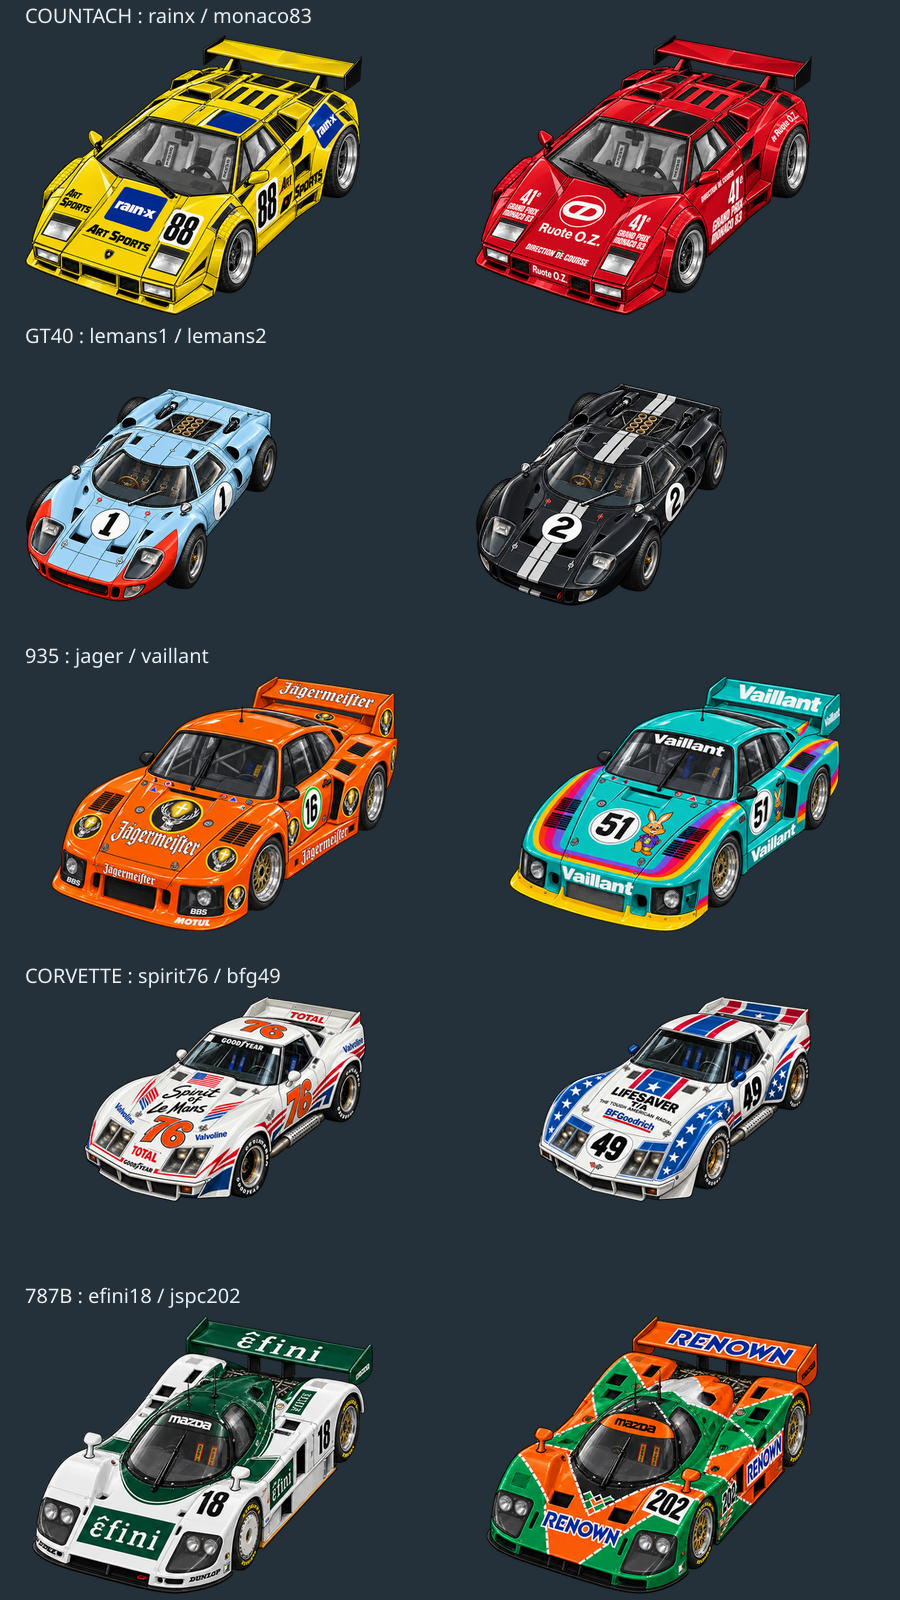
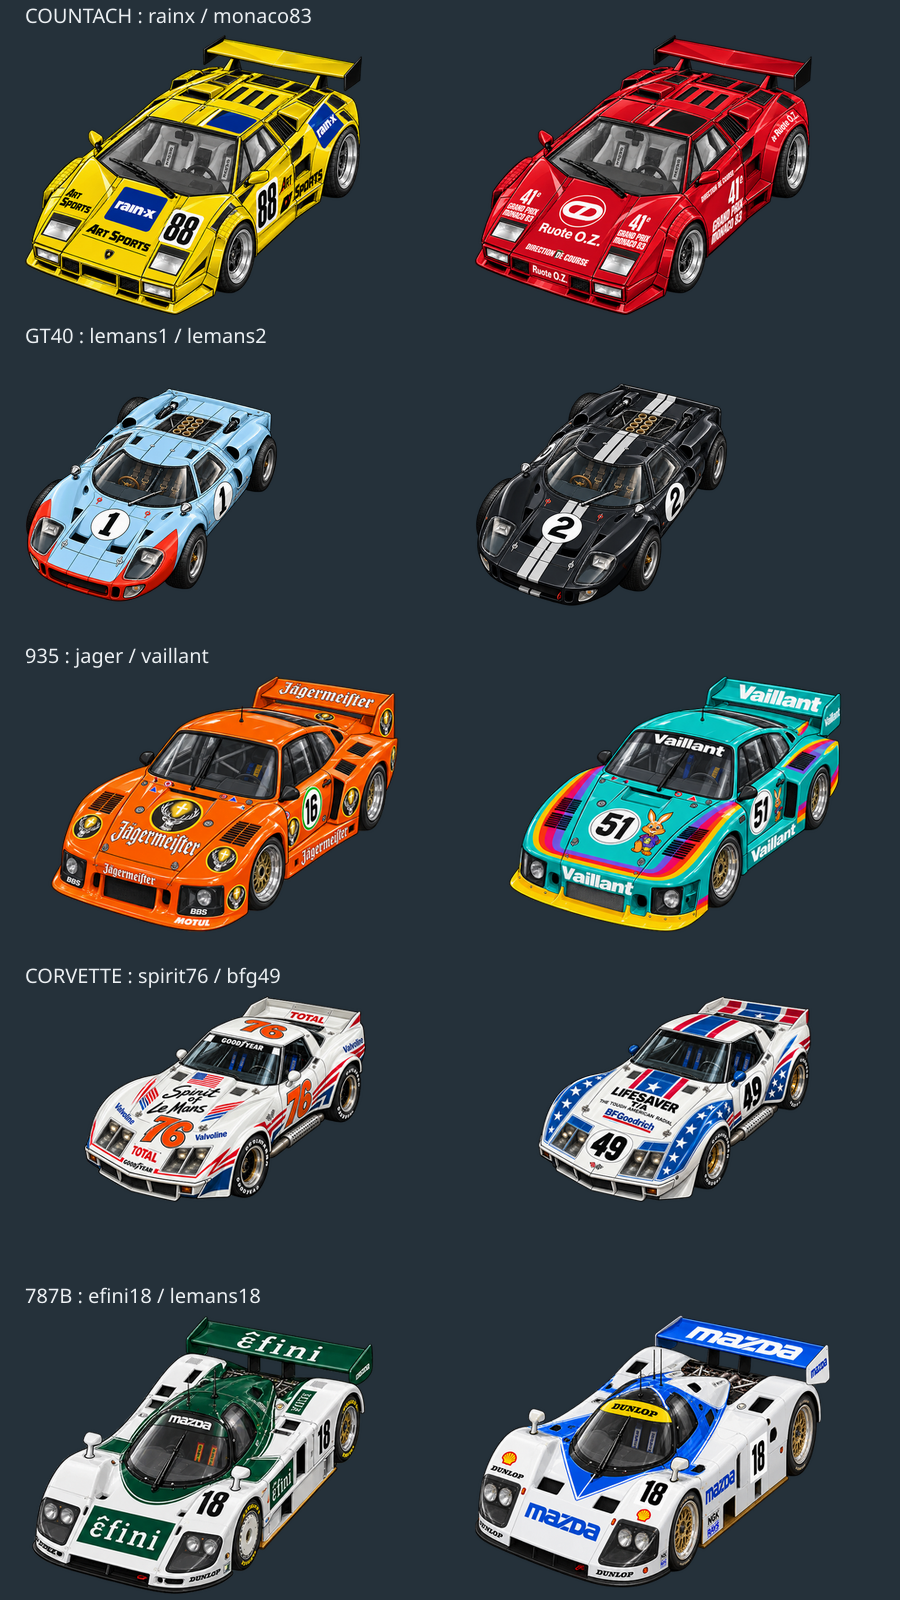
Replace duplicate Renown Mazda livery with Le Mans 1991 white and blue

Changed region(s): [[0.5289, 0.8125, 0.9333, 1.0], [0.2178, 0.7812, 0.28, 0.8125]]

diff --git a/index.html b/index.html
@@ -7,39 +7,39 @@
   <meta name="mobile-web-app-capable" content="yes">
   <meta name="theme-color" content="#0f1117">
   <title>Eyes On Line</title>
-  <link rel="icon" type="image/png" sizes="32x32" href="art/casque-32.png?v=0.28.2">
-  <link rel="icon" type="image/png" sizes="16x16" href="art/casque-16.png?v=0.28.2">
-  <link rel="icon" type="image/png" sizes="48x48" href="art/casque-48.png?v=0.28.2">
-  <link rel="icon" type="image/x-icon" href="favicon.ico?v=0.28.2">
-  <link rel="apple-touch-icon" href="art/casque-180.png?v=0.28.2">
-  <link rel="manifest" href="site.webmanifest?v=0.28.2">
-  <link rel="stylesheet" href="css/style.css?v=0.28.2">
+  <link rel="icon" type="image/png" sizes="32x32" href="art/casque-32.png?v=0.28.3">
+  <link rel="icon" type="image/png" sizes="16x16" href="art/casque-16.png?v=0.28.3">
+  <link rel="icon" type="image/png" sizes="48x48" href="art/casque-48.png?v=0.28.3">
+  <link rel="icon" type="image/x-icon" href="favicon.ico?v=0.28.3">
+  <link rel="apple-touch-icon" href="art/casque-180.png?v=0.28.3">
+  <link rel="manifest" href="site.webmanifest?v=0.28.3">
+  <link rel="stylesheet" href="css/style.css?v=0.28.3">
 </head>
 <body>
   <canvas id="game"></canvas>
   <div id="ui" class="hidden"></div>
 
-  <script src="js/version.js?v=0.28.2"></script>
-  <script src="js/util.js?v=0.28.2"></script>
-  <script src="js/traces.js?v=0.28.2"></script>
-  <script src="js/tracks.js?v=0.28.2"></script>
-  <script src="js/track.js?v=0.28.2"></script>
-  <script src="js/cars.js?v=0.28.2"></script>
-  <script src="js/carart.js?v=0.28.2"></script>
-  <script src="js/car.js?v=0.28.2"></script>
-  <script src="js/race.js?v=0.28.2"></script>
-  <script src="js/career.js?v=0.28.2"></script>
-  <script src="js/store.js?v=0.28.2"></script>
-  <script src="js/props.js?v=0.28.2"></script>
-  <script src="js/room-rtc.js?v=0.28.2"></script>
-  <script src="js/paquet.js?v=0.28.2"></script>
-  <script src="js/net.js?v=0.28.2"></script>
-  <script src="js/mondial.js?v=0.28.2"></script>
-  <script src="js/circuit-graphics.js?v=0.28.2"></script>
-<script src="js/render.js?v=0.28.2"></script>
-  <script src="js/engine-audio.js?v=0.28.2"></script>
-  <script src="js/audio.js?v=0.28.2"></script>
-  <script src="js/ui.js?v=0.28.2"></script>
-  <script src="js/main.js?v=0.28.2"></script>
+  <script src="js/version.js?v=0.28.3"></script>
+  <script src="js/util.js?v=0.28.3"></script>
+  <script src="js/traces.js?v=0.28.3"></script>
+  <script src="js/tracks.js?v=0.28.3"></script>
+  <script src="js/track.js?v=0.28.3"></script>
+  <script src="js/cars.js?v=0.28.3"></script>
+  <script src="js/carart.js?v=0.28.3"></script>
+  <script src="js/car.js?v=0.28.3"></script>
+  <script src="js/race.js?v=0.28.3"></script>
+  <script src="js/career.js?v=0.28.3"></script>
+  <script src="js/store.js?v=0.28.3"></script>
+  <script src="js/props.js?v=0.28.3"></script>
+  <script src="js/room-rtc.js?v=0.28.3"></script>
+  <script src="js/paquet.js?v=0.28.3"></script>
+  <script src="js/net.js?v=0.28.3"></script>
+  <script src="js/mondial.js?v=0.28.3"></script>
+  <script src="js/circuit-graphics.js?v=0.28.3"></script>
+<script src="js/render.js?v=0.28.3"></script>
+  <script src="js/engine-audio.js?v=0.28.3"></script>
+  <script src="js/audio.js?v=0.28.3"></script>
+  <script src="js/ui.js?v=0.28.3"></script>
+  <script src="js/main.js?v=0.28.3"></script>
 </body>
 </html>

diff --git a/lignes.html b/lignes.html
@@ -4,12 +4,12 @@
 <meta charset="utf-8">
 <meta name="viewport" content="width=device-width, initial-scale=1, viewport-fit=cover, maximum-scale=1">
 <title>Eyes On Line — Éditeur de lignes et de panneaux</title>
-<link rel="icon" type="image/png" sizes="32x32" href="art/casque-32.png?v=0.28.2">
-<link rel="icon" type="image/png" sizes="16x16" href="art/casque-16.png?v=0.28.2">
-<link rel="icon" type="image/png" sizes="48x48" href="art/casque-48.png?v=0.28.2">
-<link rel="icon" type="image/x-icon" href="favicon.ico?v=0.28.2">
-<link rel="apple-touch-icon" href="art/casque-180.png?v=0.28.2">
-<link rel="stylesheet" href="css/style.css?v=0.28.2">
+<link rel="icon" type="image/png" sizes="32x32" href="art/casque-32.png?v=0.28.3">
+<link rel="icon" type="image/png" sizes="16x16" href="art/casque-16.png?v=0.28.3">
+<link rel="icon" type="image/png" sizes="48x48" href="art/casque-48.png?v=0.28.3">
+<link rel="icon" type="image/x-icon" href="favicon.ico?v=0.28.3">
+<link rel="apple-touch-icon" href="art/casque-180.png?v=0.28.3">
+<link rel="stylesheet" href="css/style.css?v=0.28.3">
 <style>
   body { overflow: hidden; }
   #ed { position: fixed; inset: 0; display: grid; grid-template-columns: 340px 1fr; }
@@ -240,14 +240,14 @@
   </div>
 </div>
 
-<script src="js/store.js?v=0.28.2"></script>
-<script src="js/util.js?v=0.28.2"></script>
-<script src="js/traces.js?v=0.28.2"></script>
-<script src="js/tracks.js?v=0.28.2"></script>
-<script src="js/track.js?v=0.28.2"></script>
-<script src="js/props.js?v=0.28.2"></script>
-<script src="js/circuit-graphics.js?v=0.28.2"></script>
-<script src="js/render.js?v=0.28.2"></script>
-<script src="js/lignes.js?v=0.28.2"></script>
+<script src="js/store.js?v=0.28.3"></script>
+<script src="js/util.js?v=0.28.3"></script>
+<script src="js/traces.js?v=0.28.3"></script>
+<script src="js/tracks.js?v=0.28.3"></script>
+<script src="js/track.js?v=0.28.3"></script>
+<script src="js/props.js?v=0.28.3"></script>
+<script src="js/circuit-graphics.js?v=0.28.3"></script>
+<script src="js/render.js?v=0.28.3"></script>
+<script src="js/lignes.js?v=0.28.3"></script>
 </body>
 </html>

diff --git a/editor.html b/editor.html
@@ -4,12 +4,12 @@
   <meta charset="utf-8">
   <meta name="viewport" content="width=device-width, initial-scale=1">
   <title>Eyes On Line — Éditeur de circuits</title>
-  <link rel="icon" type="image/png" sizes="32x32" href="art/casque-32.png?v=0.28.2">
-  <link rel="icon" type="image/png" sizes="16x16" href="art/casque-16.png?v=0.28.2">
-  <link rel="icon" type="image/png" sizes="48x48" href="art/casque-48.png?v=0.28.2">
-  <link rel="icon" type="image/x-icon" href="favicon.ico?v=0.28.2">
-  <link rel="apple-touch-icon" href="art/casque-180.png?v=0.28.2">
-  <link rel="stylesheet" href="css/style.css?v=0.28.2">
+  <link rel="icon" type="image/png" sizes="32x32" href="art/casque-32.png?v=0.28.3">
+  <link rel="icon" type="image/png" sizes="16x16" href="art/casque-16.png?v=0.28.3">
+  <link rel="icon" type="image/png" sizes="48x48" href="art/casque-48.png?v=0.28.3">
+  <link rel="icon" type="image/x-icon" href="favicon.ico?v=0.28.3">
+  <link rel="apple-touch-icon" href="art/casque-180.png?v=0.28.3">
+  <link rel="stylesheet" href="css/style.css?v=0.28.3">
   <style>
     body { overflow: hidden; }
     #ed { position: fixed; inset: 0; display: grid; grid-template-columns: 300px 1fr; }
@@ -63,9 +63,9 @@
     </div>
     <canvas id="cv"></canvas>
   </div>
-  <script src="js/util.js?v=0.28.2"></script>
-  <script src="js/track.js?v=0.28.2"></script>
-  <script src="js/store.js?v=0.28.2"></script>
-  <script src="js/editor.js?v=0.28.2"></script>
+  <script src="js/util.js?v=0.28.3"></script>
+  <script src="js/track.js?v=0.28.3"></script>
+  <script src="js/store.js?v=0.28.3"></script>
+  <script src="js/editor.js?v=0.28.3"></script>
 </body>
 </html>

diff --git a/moteur.html b/moteur.html
@@ -4,12 +4,12 @@
   <meta charset="utf-8">
   <meta name="viewport" content="width=device-width, initial-scale=1, viewport-fit=cover">
   <title>Eyes On Line — banc moteur</title>
-  <link rel="icon" type="image/png" sizes="32x32" href="art/casque-32.png?v=0.28.2">
-  <link rel="icon" type="image/png" sizes="16x16" href="art/casque-16.png?v=0.28.2">
-  <link rel="icon" type="image/png" sizes="48x48" href="art/casque-48.png?v=0.28.2">
-  <link rel="icon" type="image/x-icon" href="favicon.ico?v=0.28.2">
-  <link rel="apple-touch-icon" href="art/casque-180.png?v=0.28.2">
-  <link rel="stylesheet" href="css/style.css?v=0.28.2">
+  <link rel="icon" type="image/png" sizes="32x32" href="art/casque-32.png?v=0.28.3">
+  <link rel="icon" type="image/png" sizes="16x16" href="art/casque-16.png?v=0.28.3">
+  <link rel="icon" type="image/png" sizes="48x48" href="art/casque-48.png?v=0.28.3">
+  <link rel="icon" type="image/x-icon" href="favicon.ico?v=0.28.3">
+  <link rel="apple-touch-icon" href="art/casque-180.png?v=0.28.3">
+  <link rel="stylesheet" href="css/style.css?v=0.28.3">
   <style>
     body { margin: 0; background: #0f1117; color: #e8e8ec; font: 15px/1.5 system-ui, sans-serif; }
     .banc { max-width: 720px; margin: 0 auto; padding: 18px 16px 60px; }
@@ -55,7 +55,7 @@
     <p class="muted" style="margin-top:18px">Ce que le mélangeur envoie, en direct :</p>
     <table id="voies"></table>
   </div>
-  <script src="js/engine-audio.js?v=0.28.2"></script>
-  <script src="js/moteur.js?v=0.28.2"></script>
+  <script src="js/engine-audio.js?v=0.28.3"></script>
+  <script src="js/moteur.js?v=0.28.3"></script>
 </body>
 </html>

diff --git a/js/cars.js b/js/cars.js
@@ -181,7 +181,7 @@ const HISTORIC_LIVERIES = {
   gt40: [{ id: 'lemans1', nom: 'Le Mans 1966 · 1' }, { id: 'lemans2', nom: 'Le Mans 1966 · 2' }],
   '935': [{ id: 'jager', nom: 'Jägermeister · 16' }, { id: 'vaillant', nom: 'Vaillant-Kremer · 51' }],
   corvette: [{ id: 'spirit76', nom: 'Spirit of Le Mans · 76' }, { id: 'bfg49', nom: 'BFGoodrich · 49' }],
-  '787b': [{ id: 'efini18', nom: 'Efini Autopolis · 18' }, { id: 'jspc202', nom: 'Renown JSPC · 202' }],
+  '787b': [{ id: 'efini18', nom: 'Efini Autopolis · 18' }, { id: 'lemans18', nom: 'Mazda Le Mans 1991 · 18' }],
 };
 for (const category of CATEGORIES) {
   for (const model of category.models) {

diff --git a/js/version.js b/js/version.js
@@ -11,5 +11,5 @@ browser to fetch the new files.
 */
 'use strict';
 
-const APP_VERSION = '0.28.2';
+const APP_VERSION = '0.28.3';
 const APP_DATE = '2026-10-16';

diff --git a/docs/livrees-historiques/README.md b/docs/livrees-historiques/README.md
@@ -15,7 +15,7 @@ Ce sont des adaptations illustrées sur les carrosseries du jeu : les versions h
 | Corvette C3 | Spirit of Le Mans n°76 | [IMSA](https://www.imsa.com/news/2023/03/10/spirit-of-le-mans-corvette-honored-at-amelia-island-concours-delegance/) |
 | Corvette C3 | BFGoodrich Stars and Stripes n°49 | [BFGoodrich](https://www.bfgoodrichracing.com/gallery/bfgoodrich-greenwood-corvette/) |
 | Mazda 787B | Efini n°18, SWC Autopolis 1991 | [HPI 997](https://www.hpiracing.com/en/part/997) |
-| Mazda 787B | Renown n°202, JSPC 1991 | [HPI 8039](https://www.hpiracing.com/en/part/8039) |
+| Mazda 787B | Mazda blanche et bleue n°18, Le Mans 1991 | [Kyosho](https://rc.kyosho.com/en/newitem/32361ma.html) |
 
 La Mazda n°56 du Mans 1991 a été écartée : c’était une 787, pas une 787B.
 
@@ -32,3 +32,7 @@ Pour les prochaines générations, convertir les sprites d’origine en noir et 
 En sortie, contrôler séparément les dimensions du PNG et le rectangle réellement occupé par la voiture, puis comparer les silhouettes à celle du sprite d’origine. Avoir deux fichiers de même taille ne garantit pas des voitures de mêmes proportions. Le cadrage final doit reprendre le rectangle occupé par la référence, et une différence de carrosserie visible doit entraîner une correction.
 
 Correction Countach (0.28.2) : les quatre sprites ont été régénérés sur les références d’origine en noir et blanc. Dimensions du fichier et rectangle occupé identiques aux originaux : 395 × 203 en course, 420 × 349 en sélection. Recouvrement des silhouettes (intersection / union des pixels d’alpha ≥ 32) : environ 98 % en course et 93 % en sélection ; il subsiste donc de petites différences de dessin. Les mesures détaillées sont dans `countach-geometrie.jsonl`. La variante Monaco conserve volontairement la carrosserie et l’aileron de base, sans rampe lumineuse, pour respecter la silhouette demandée.
+
+La Renown JSPC n°202 a été remplacée par la n°18 blanche et bleue du Mans : les deux Mazda n°18 correspondent à des épreuves et décorations différentes (Autopolis Efini / Le Mans Mazda). La Renown n°55 d’origine est conservée.
+
+Correction Mazda (0.28.3) : la vue de course de la nouvelle livrée blanche/bleue mesure 420 × 230 px, celle du menu 420 × 331 px, comme les originaux. Le rectangle occupé est également conservé. Recouvrement des silhouettes : 97 % et 93 % respectivement (voir `mazda-geometrie.jsonl`).
